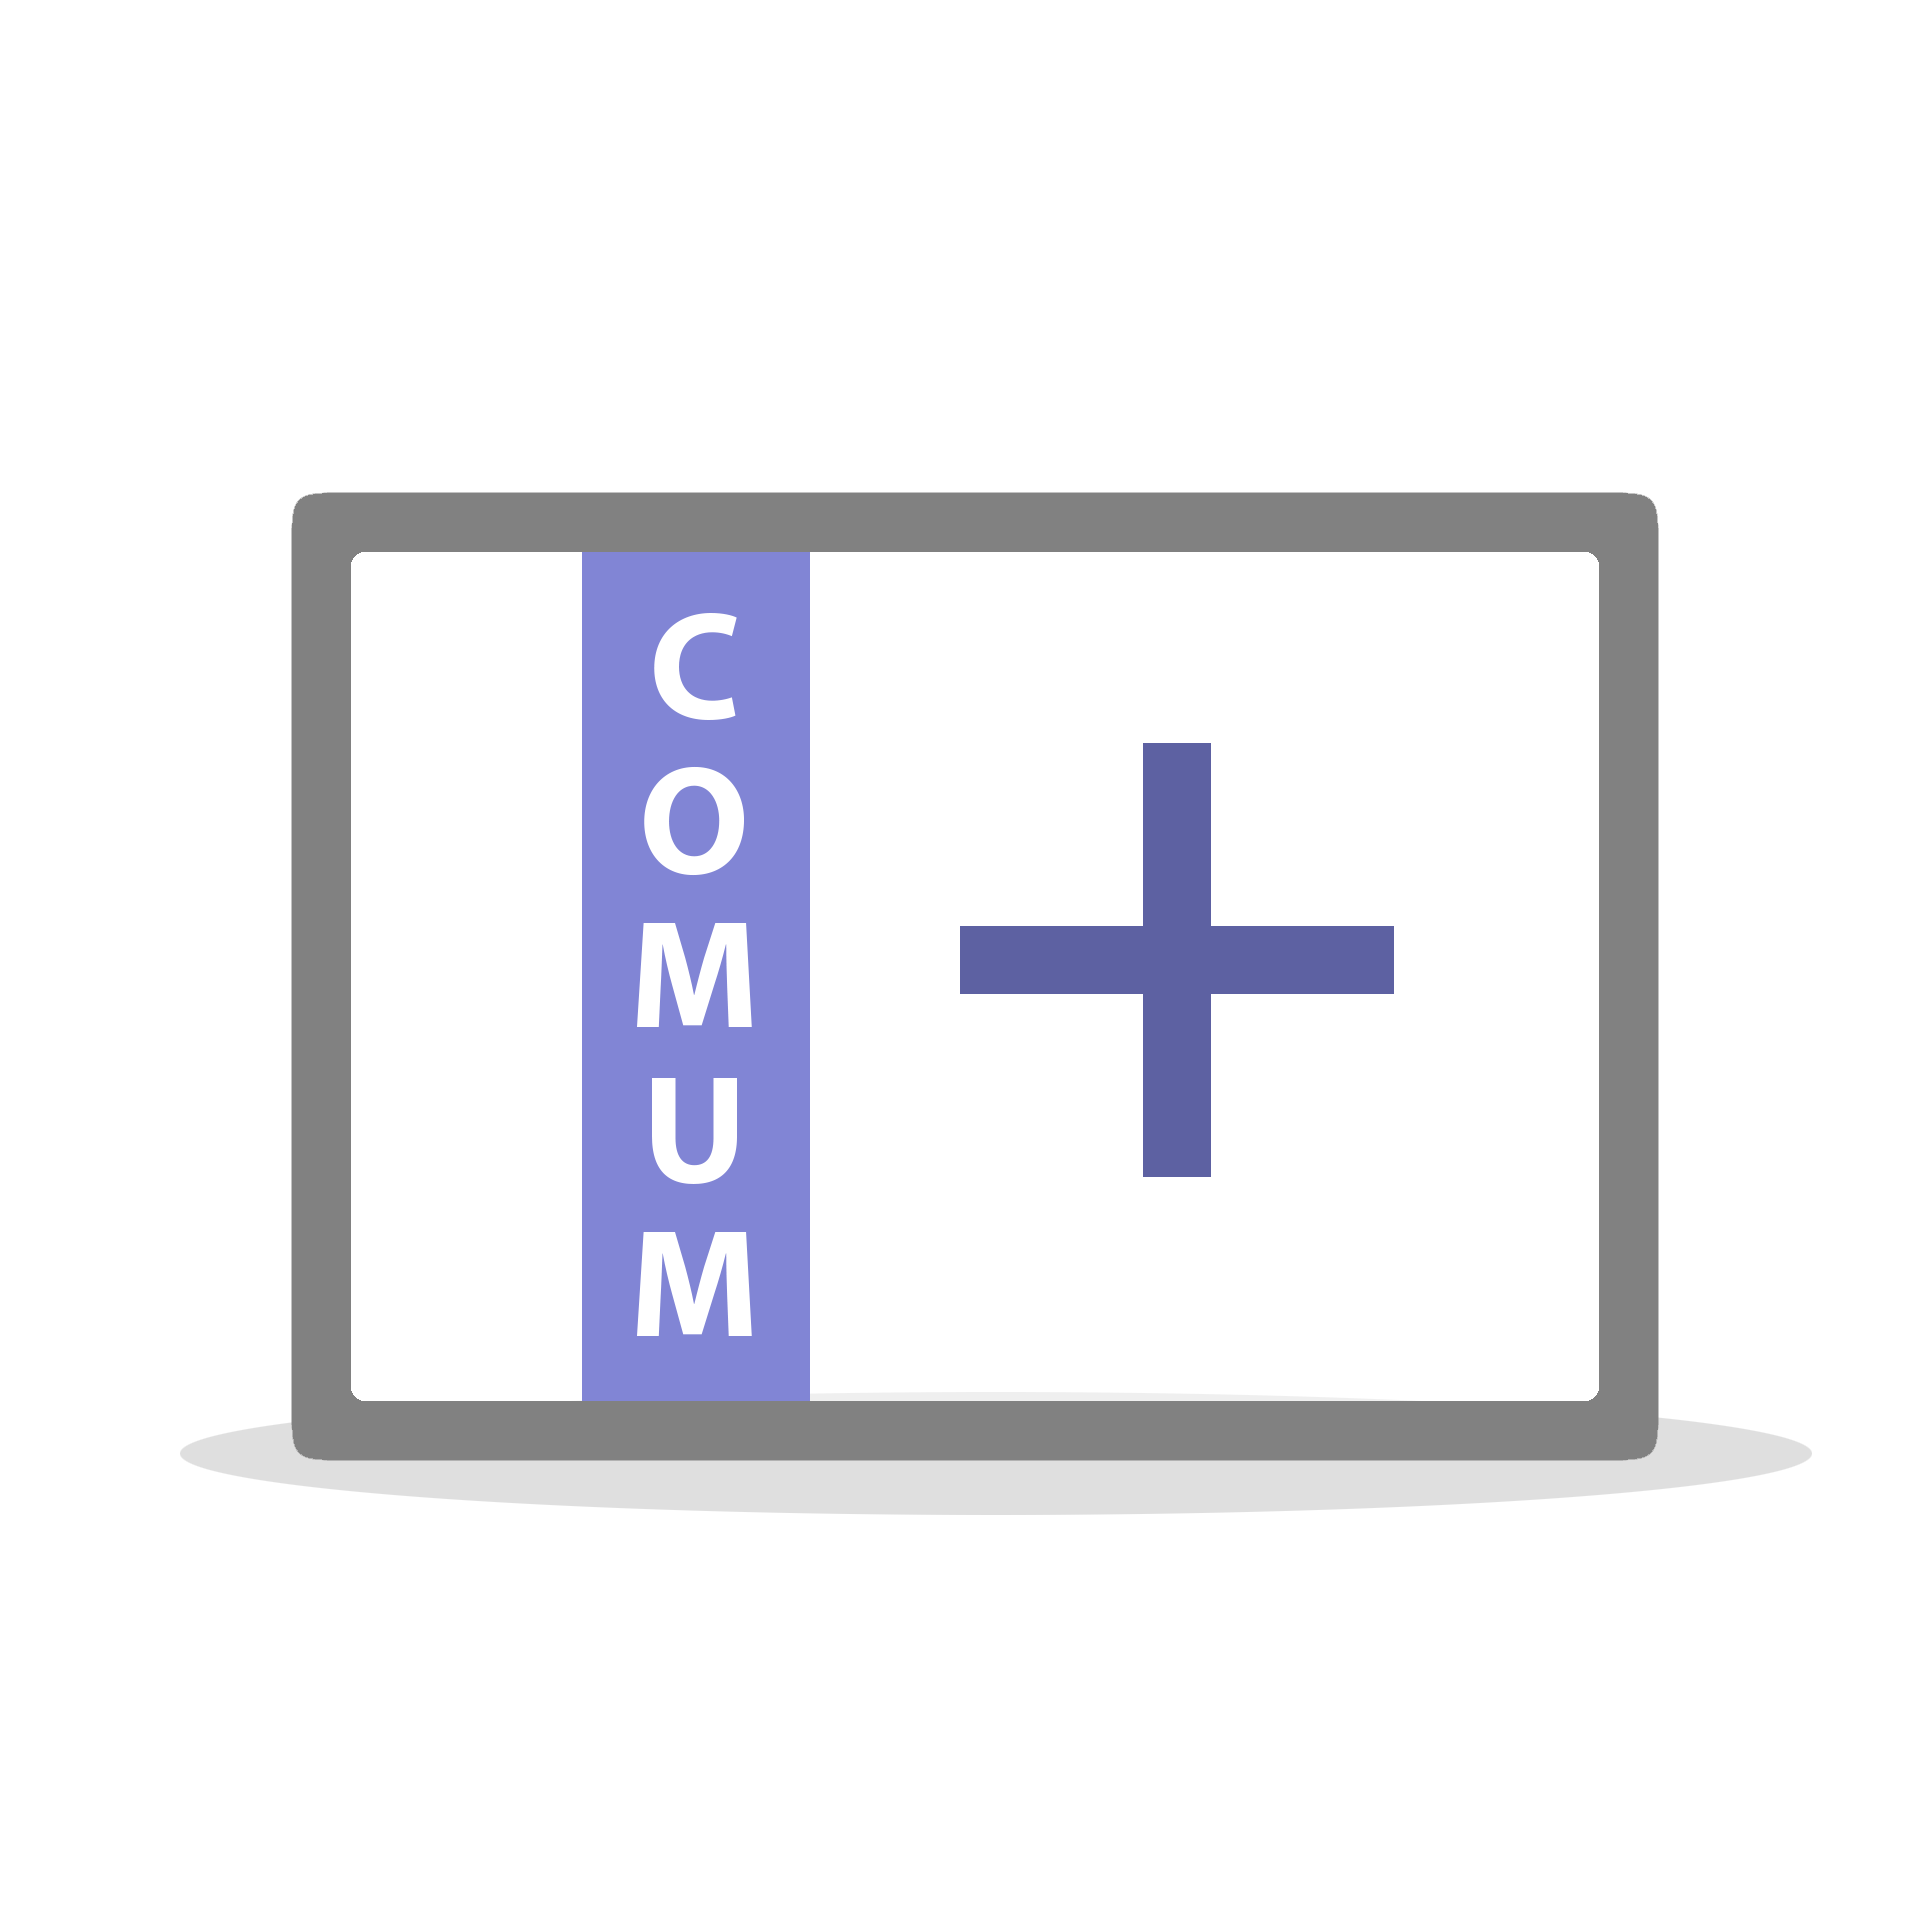
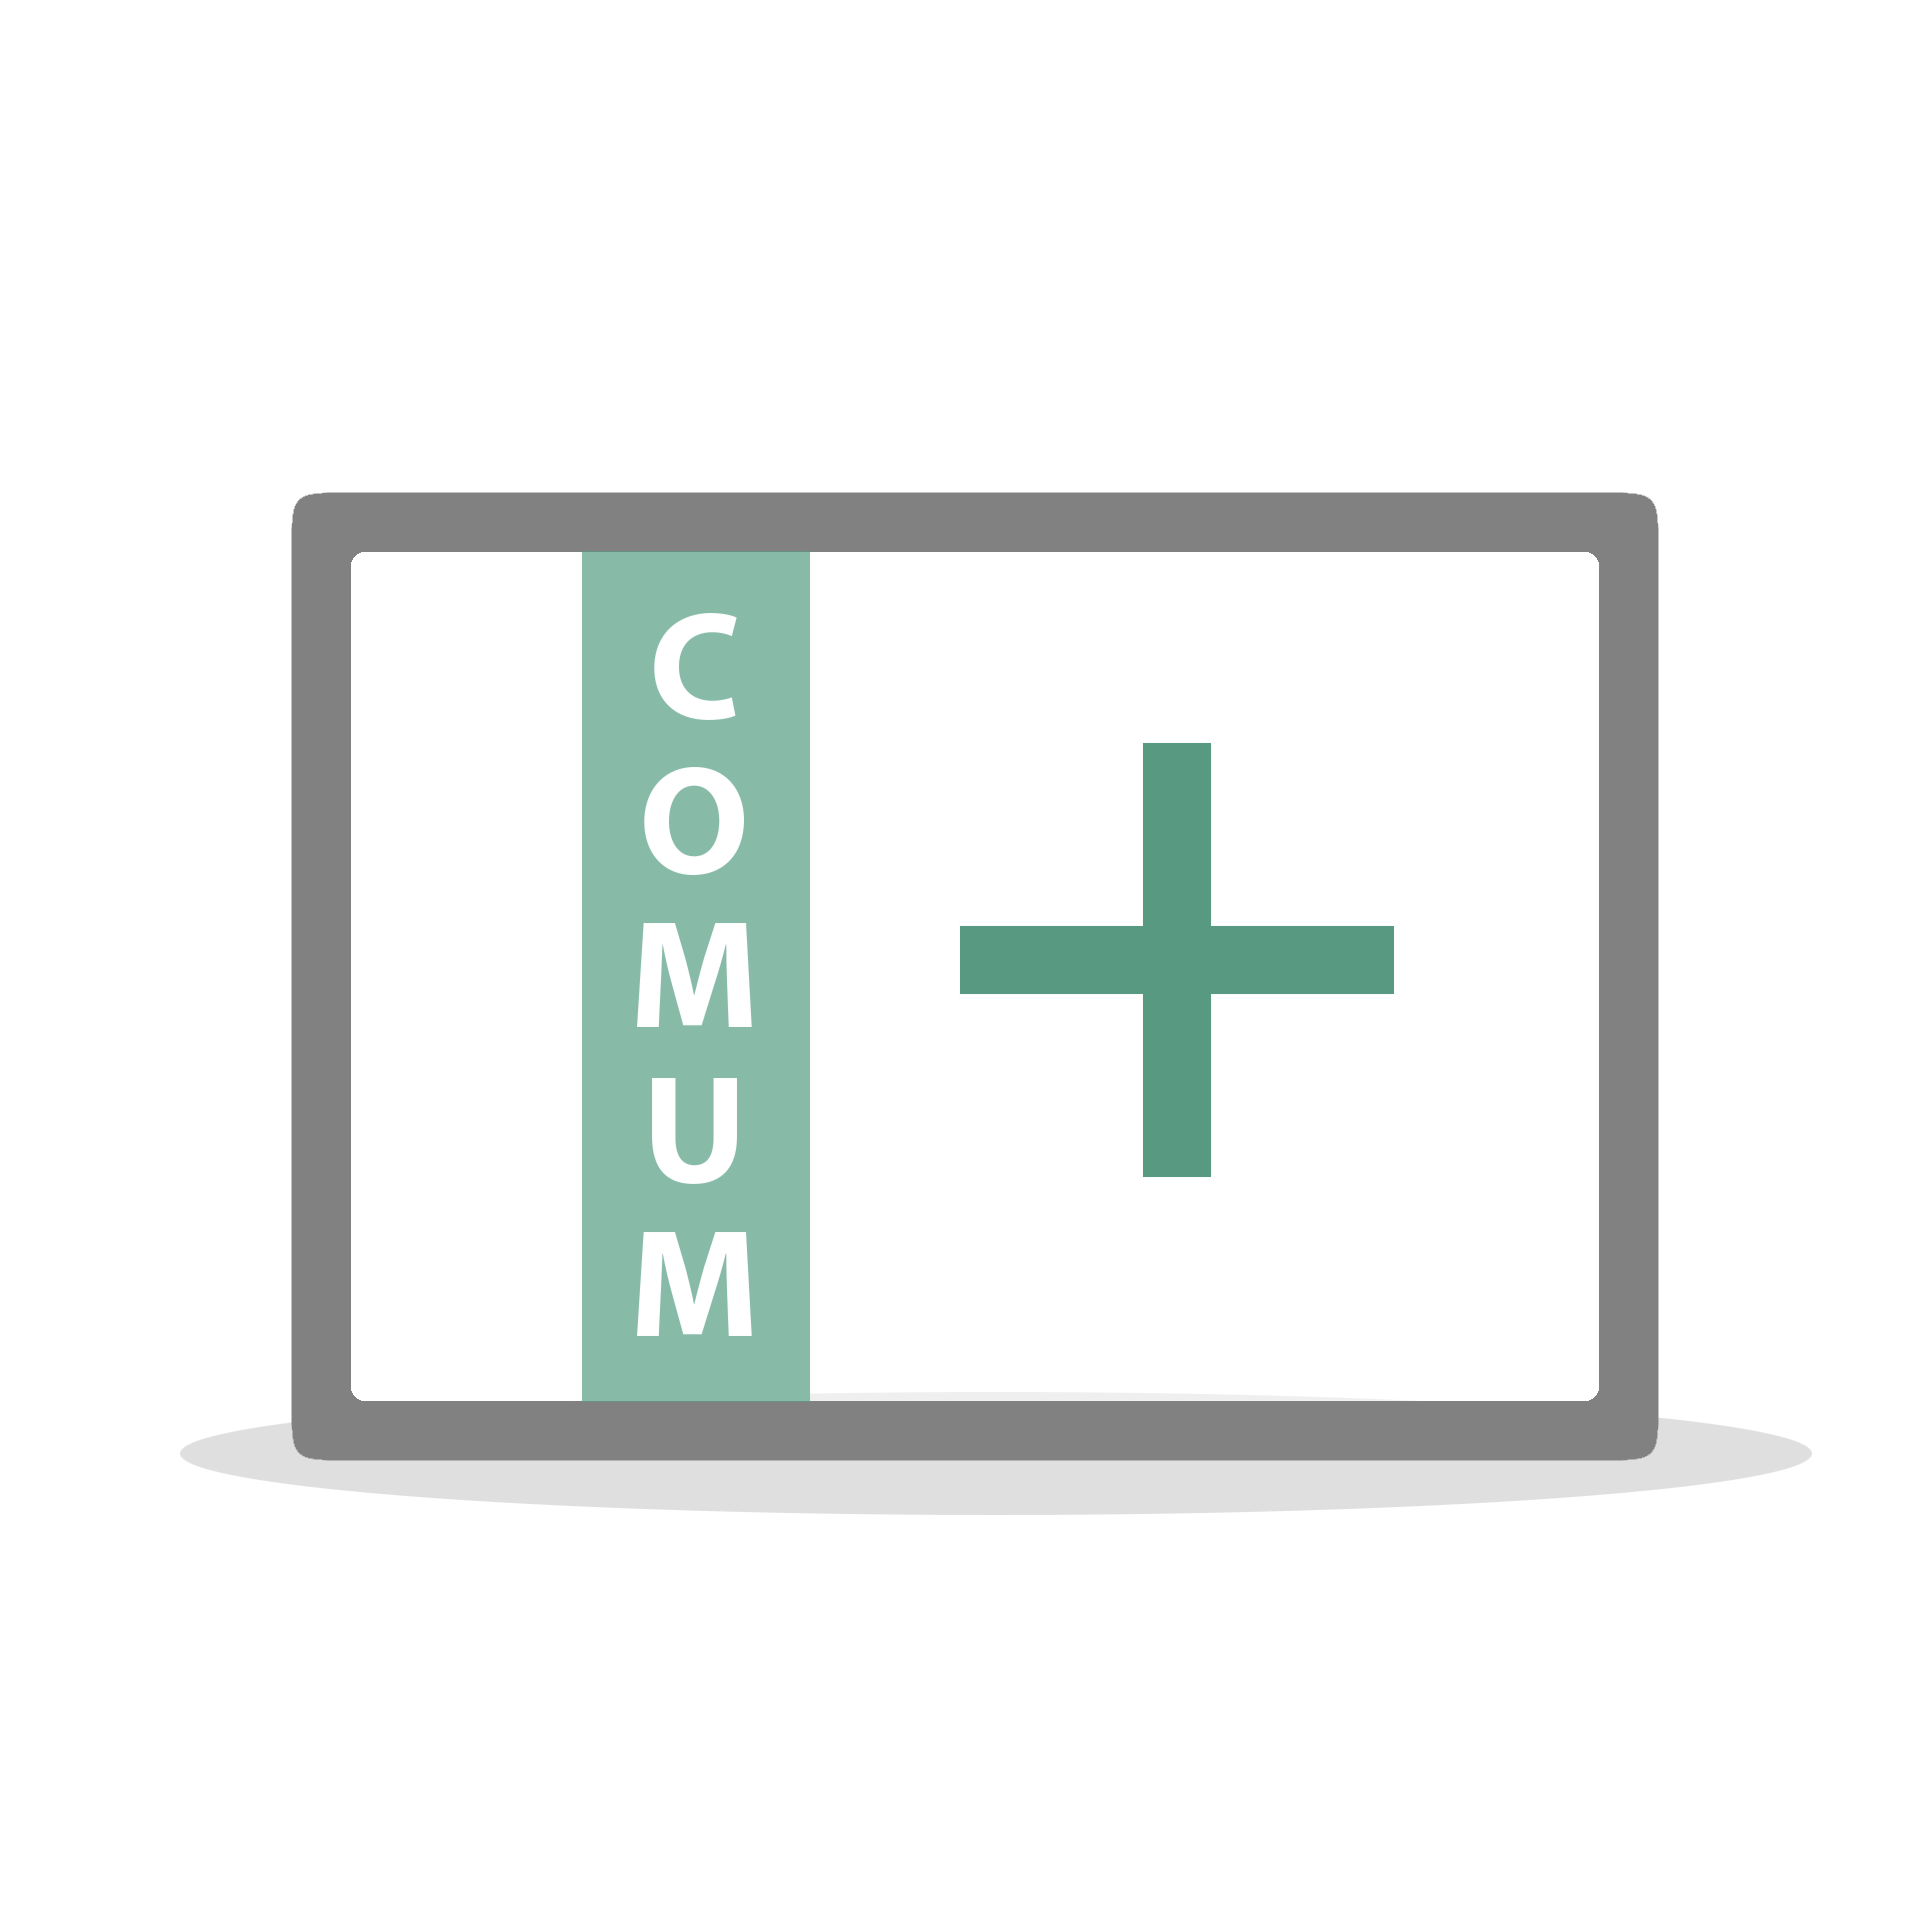
feat: modificação de estilização

Changed region(s): [[0.2812, 0.2812, 0.4375, 0.75], [0.5, 0.375, 0.75, 0.625]]

diff --git a/src/components/MedCards/styles.ts b/src/components/MedCards/styles.ts
@@ -4,13 +4,13 @@ import { ProductProps } from "../../pages/newProduct/interfaces";
 //Card container
 
 export const PNameStyled = styled.p`
-color: #0900ad;
+color: #2e9cb2;
 margin-top: 0.5rem;
 font-weight: 800;
 `
 
 export const PDoseStyled = styled.p`
-color: #8a8a8a;
+color: #a7a7a7;
 font-size: 0.75rem;
 font-weight: 800;
 margin-top: -0.2rem;
@@ -29,7 +29,7 @@ export const SpanStyled = styled.span`
 export const PPriceStyled = styled.p`
   font-size: 1.25rem;
   font-weight: 800;
-  color: #ff7700;
+  color: #ff9d00;
   margin: 1rem;
   `
 
@@ -45,14 +45,14 @@ export const ButtonStyled = styled.button`
   padding: 0 1.5rem;
   margin: 1rem 2rem;
   border-radius: 1rem;
-  border: blue 1px solid;
+  border: #00909b 1px solid;
   background-color: white;
   height: fit-content;
     &:hover{
-      background-color: #F0F0F0;
+      background-color: #e4e9ea;
       cursor: pointer;
       ${PDoseStyled} {
-        color: #7470fd;
+        color: #77a5b9;
       }
       ${ImgStyled}{
         background-color: white;
@@ -139,7 +139,7 @@ export const BtnPrev = styled.button`
     scale: 1.5;
   }
   `
-  
+
 export const BtnNext = styled.button`
   color: #8f8e8e;
   background-color: #F0F0F0;
@@ -180,12 +180,13 @@ interface Props {
 }
 
 export const PNameModal = styled.p`
-color: #121ab1;
+color: #12b1b1;
 font-size: 2rem;
 font-weight: 700;
 `
+
 export const PDoseModal = styled.p`
-color: #6060a7;
+color: #749aa8;
 font-size: 1.1rem;
 font-weight: 600;
 margin-top: -.5rem;
@@ -208,16 +209,17 @@ color: #9e9e9e;
 
 export const PNatureModal = styled.p<Props>`
 margin-top: 1rem;
-color: ${props => props.isControlled ? '#ce3ce1' : '#7961ff'};
+color: ${props => props.isControlled ? '#9900ff' : '#98d4dc'};
 font-weight: 600;
 `
 
 export const PPriceModal = styled.p`
-color: #ff7300;
+color: #ffae00;
 font-size: 2rem;
 font-weight: 800;
 margin-top: 1.5rem;
 `
+
 export const PUnitModal = styled.p`
 margin-top: -0.5rem;
 font-weight: 600;
@@ -240,4 +242,5 @@ background-color: #f0f0f0;
 min-height: 10rem;
 width: 80%;
 `
+
 //Modal content

diff --git a/src/pages/productList/styles.ts b/src/pages/productList/styles.ts
@@ -8,14 +8,14 @@ flex-direction: column;
 export const FilterSectStyled = styled.section`
 box-sizing: border-box;
 padding: .5rem 12rem;
-background-color: #E0E0E0;
+background-color: #eaeaea;
 display: flex;
 justify-content: space-between;
 align-items: center;
 `
 
 export const H2Styled = styled.h2`
-color: #8d92dd;
+color: #67a2ab;
 font-size: 2rem
 `
 
